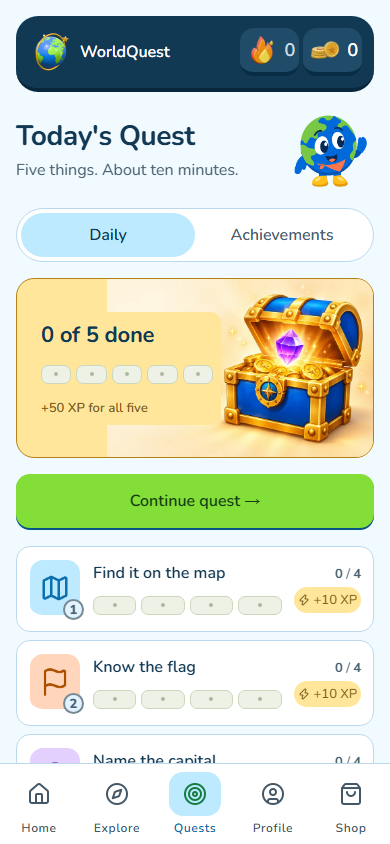
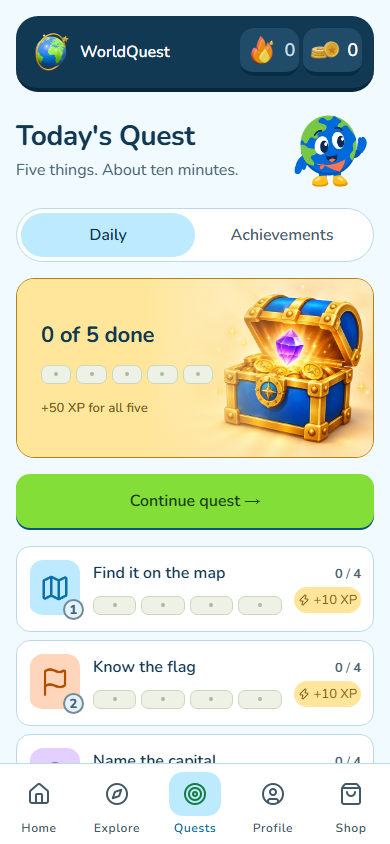
Blend quest chest artwork into the reward card

Changed region(s): [[0.5538, 0.3389, 0.7385, 0.5237], [0.2769, 0.3081, 0.5846, 0.3697], [0.2769, 0.4929, 0.4923, 0.5545]]

diff --git a/apps/mobile/src/features/quests/QuestScreen.tsx b/apps/mobile/src/features/quests/QuestScreen.tsx
@@ -10,6 +10,7 @@
  * game into an obligation.
  */
 
+import { LinearGradient } from 'expo-linear-gradient'
 import { Animated, Pressable, ScrollView, StyleSheet, Text, View } from 'react-native'
 import {
   Button,
@@ -171,6 +172,14 @@ export function QuestScreen({
 
       <Card style={styles.summary}>
         <View pointerEvents="none" style={styles.treasure}><RewardMotion key={done} active kind="pop"><AdventureArt name="treasure" style={{ width: 270, height: 180 }} /></RewardMotion><ProgressSparkles earned={done} /></View>
+        <LinearGradient
+          pointerEvents="none"
+          colors={[colors.journey.sand, colors.journey.sand, `${colors.journey.sand}00`]}
+          locations={[0, 0.36, 0.78]}
+          start={{ x: 0, y: 0.5 }}
+          end={{ x: 1, y: 0.5 }}
+          style={StyleSheet.absoluteFill}
+        />
         <View style={styles.summaryText}>
         {/* The label already reads "2 of 5 done", so the bar's own counter would
             print the same numbers twice, six pixels apart. */}
@@ -380,7 +389,7 @@ const styles = StyleSheet.create({
   cta: { marginTop: space[3] },
 
   summary: { backgroundColor: colors.journey.sand, borderColor: colors.league.gold.edge, minHeight: 180, justifyContent: 'center', overflow: 'hidden' },
-  summaryText: { width: '58%', gap: space[3], backgroundColor: colors.journey.sand, padding: space[2], borderRadius: radius.md },
+  summaryText: { width: '58%', gap: space[3], padding: space[2] },
   treasure: { position: 'absolute', end: -4, top: 0 },
   progressTitle: { ...text('h2'), color: colors.text.primary },
   taskArt: { width: space[8]+space[1], height: space[8]+space[3], borderRadius: radius.lg, alignItems: 'center', justifyContent: 'center', borderWidth: 1, borderColor: colors.bg.surface, borderBottomWidth: space[1] },
